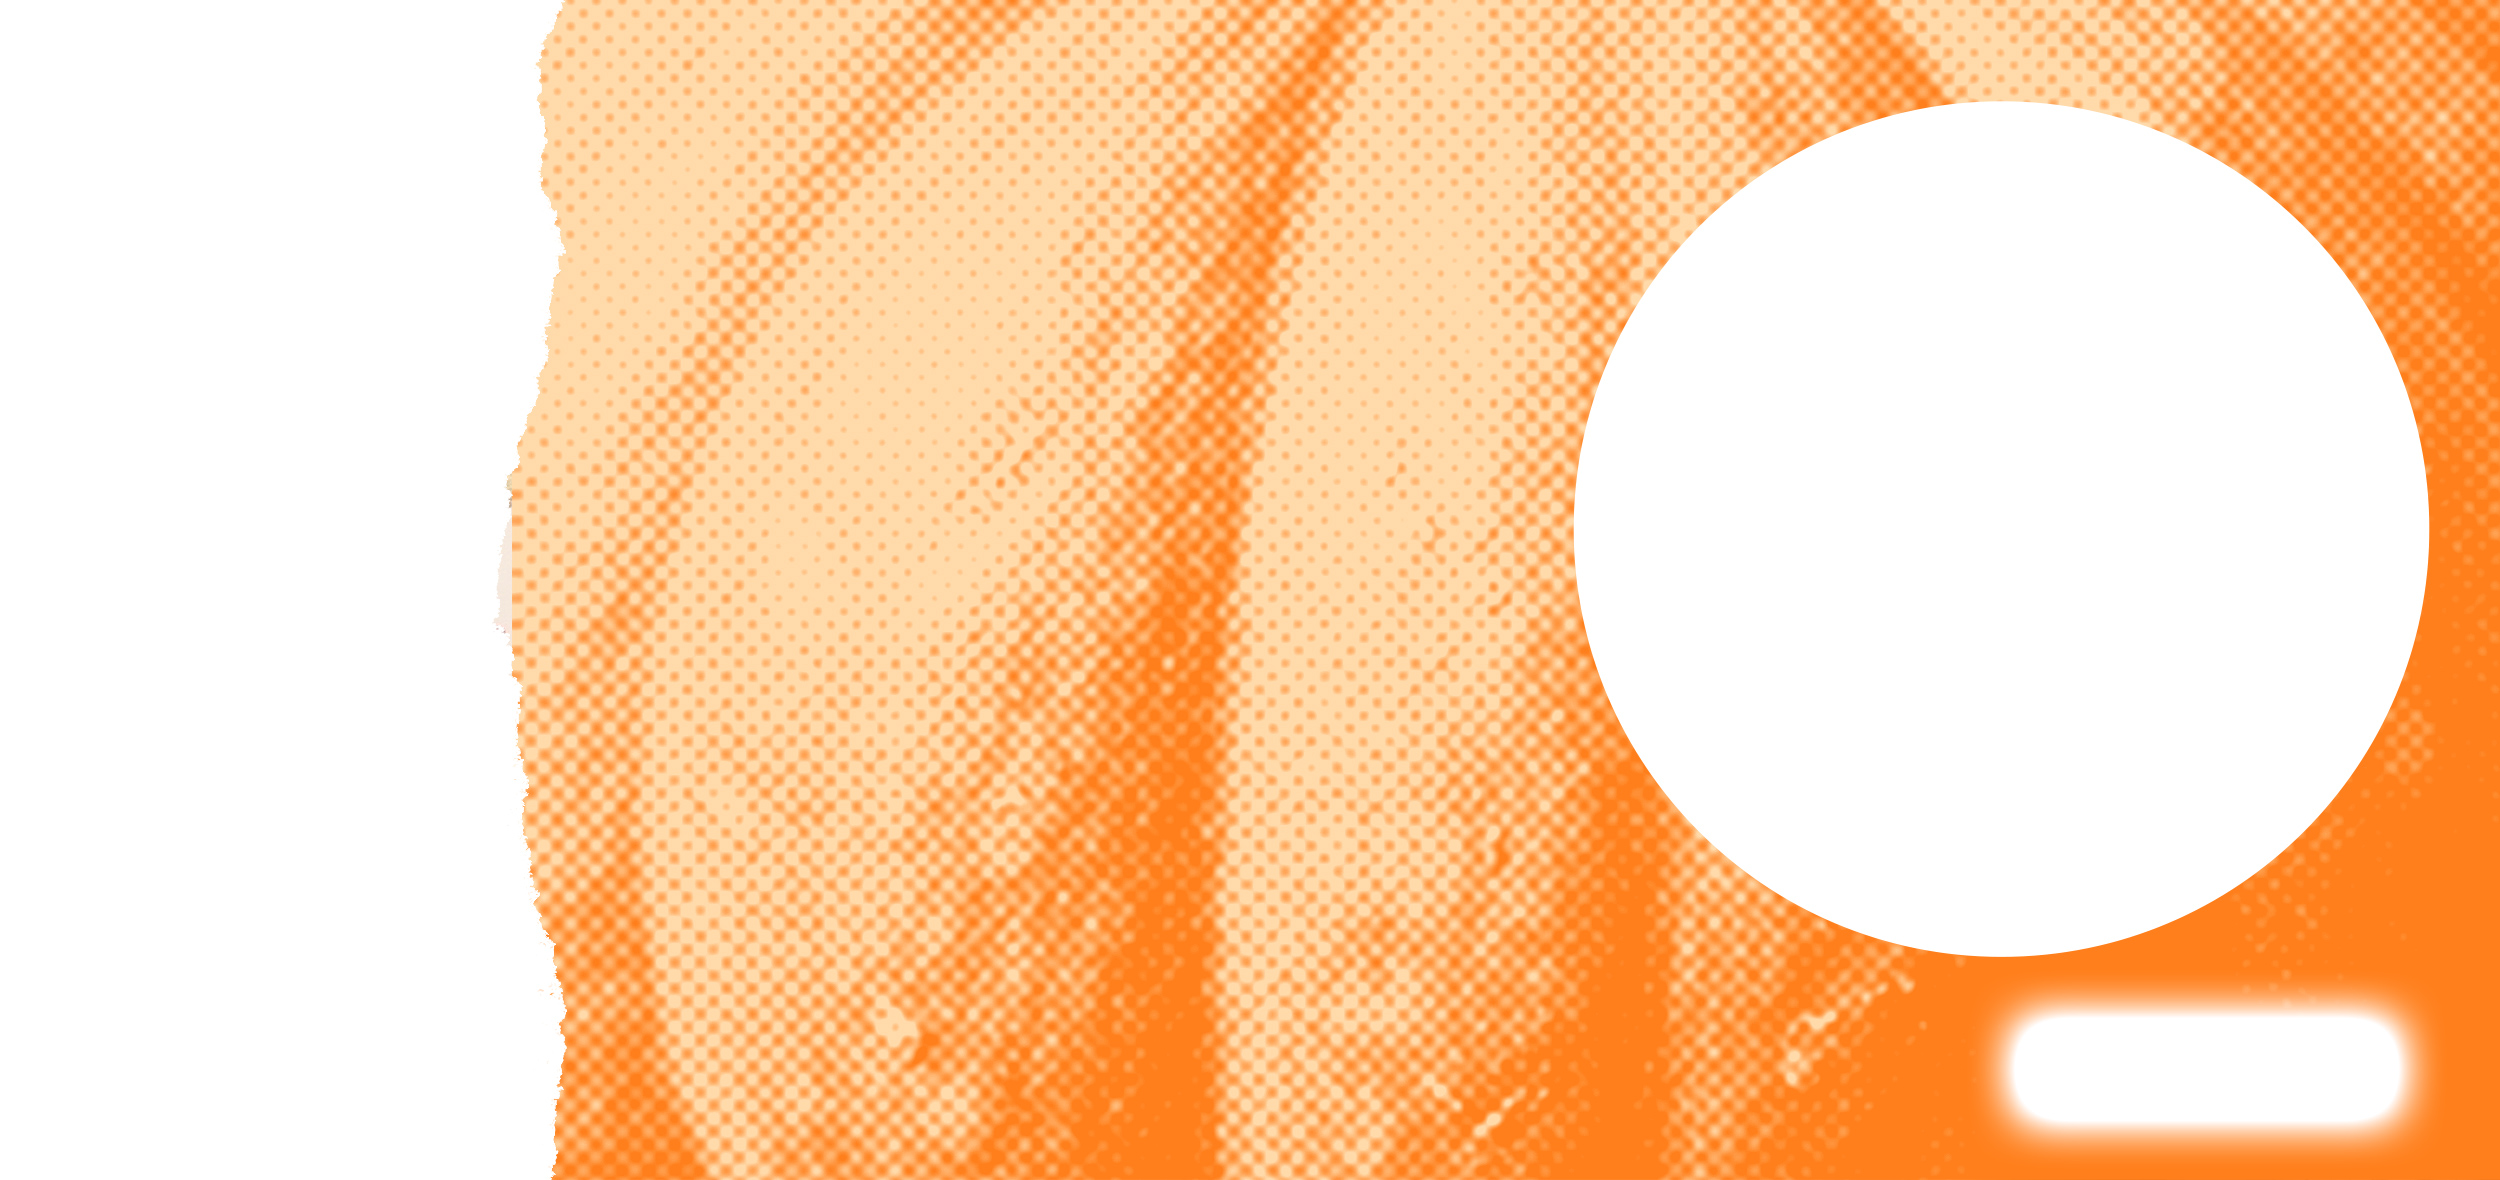
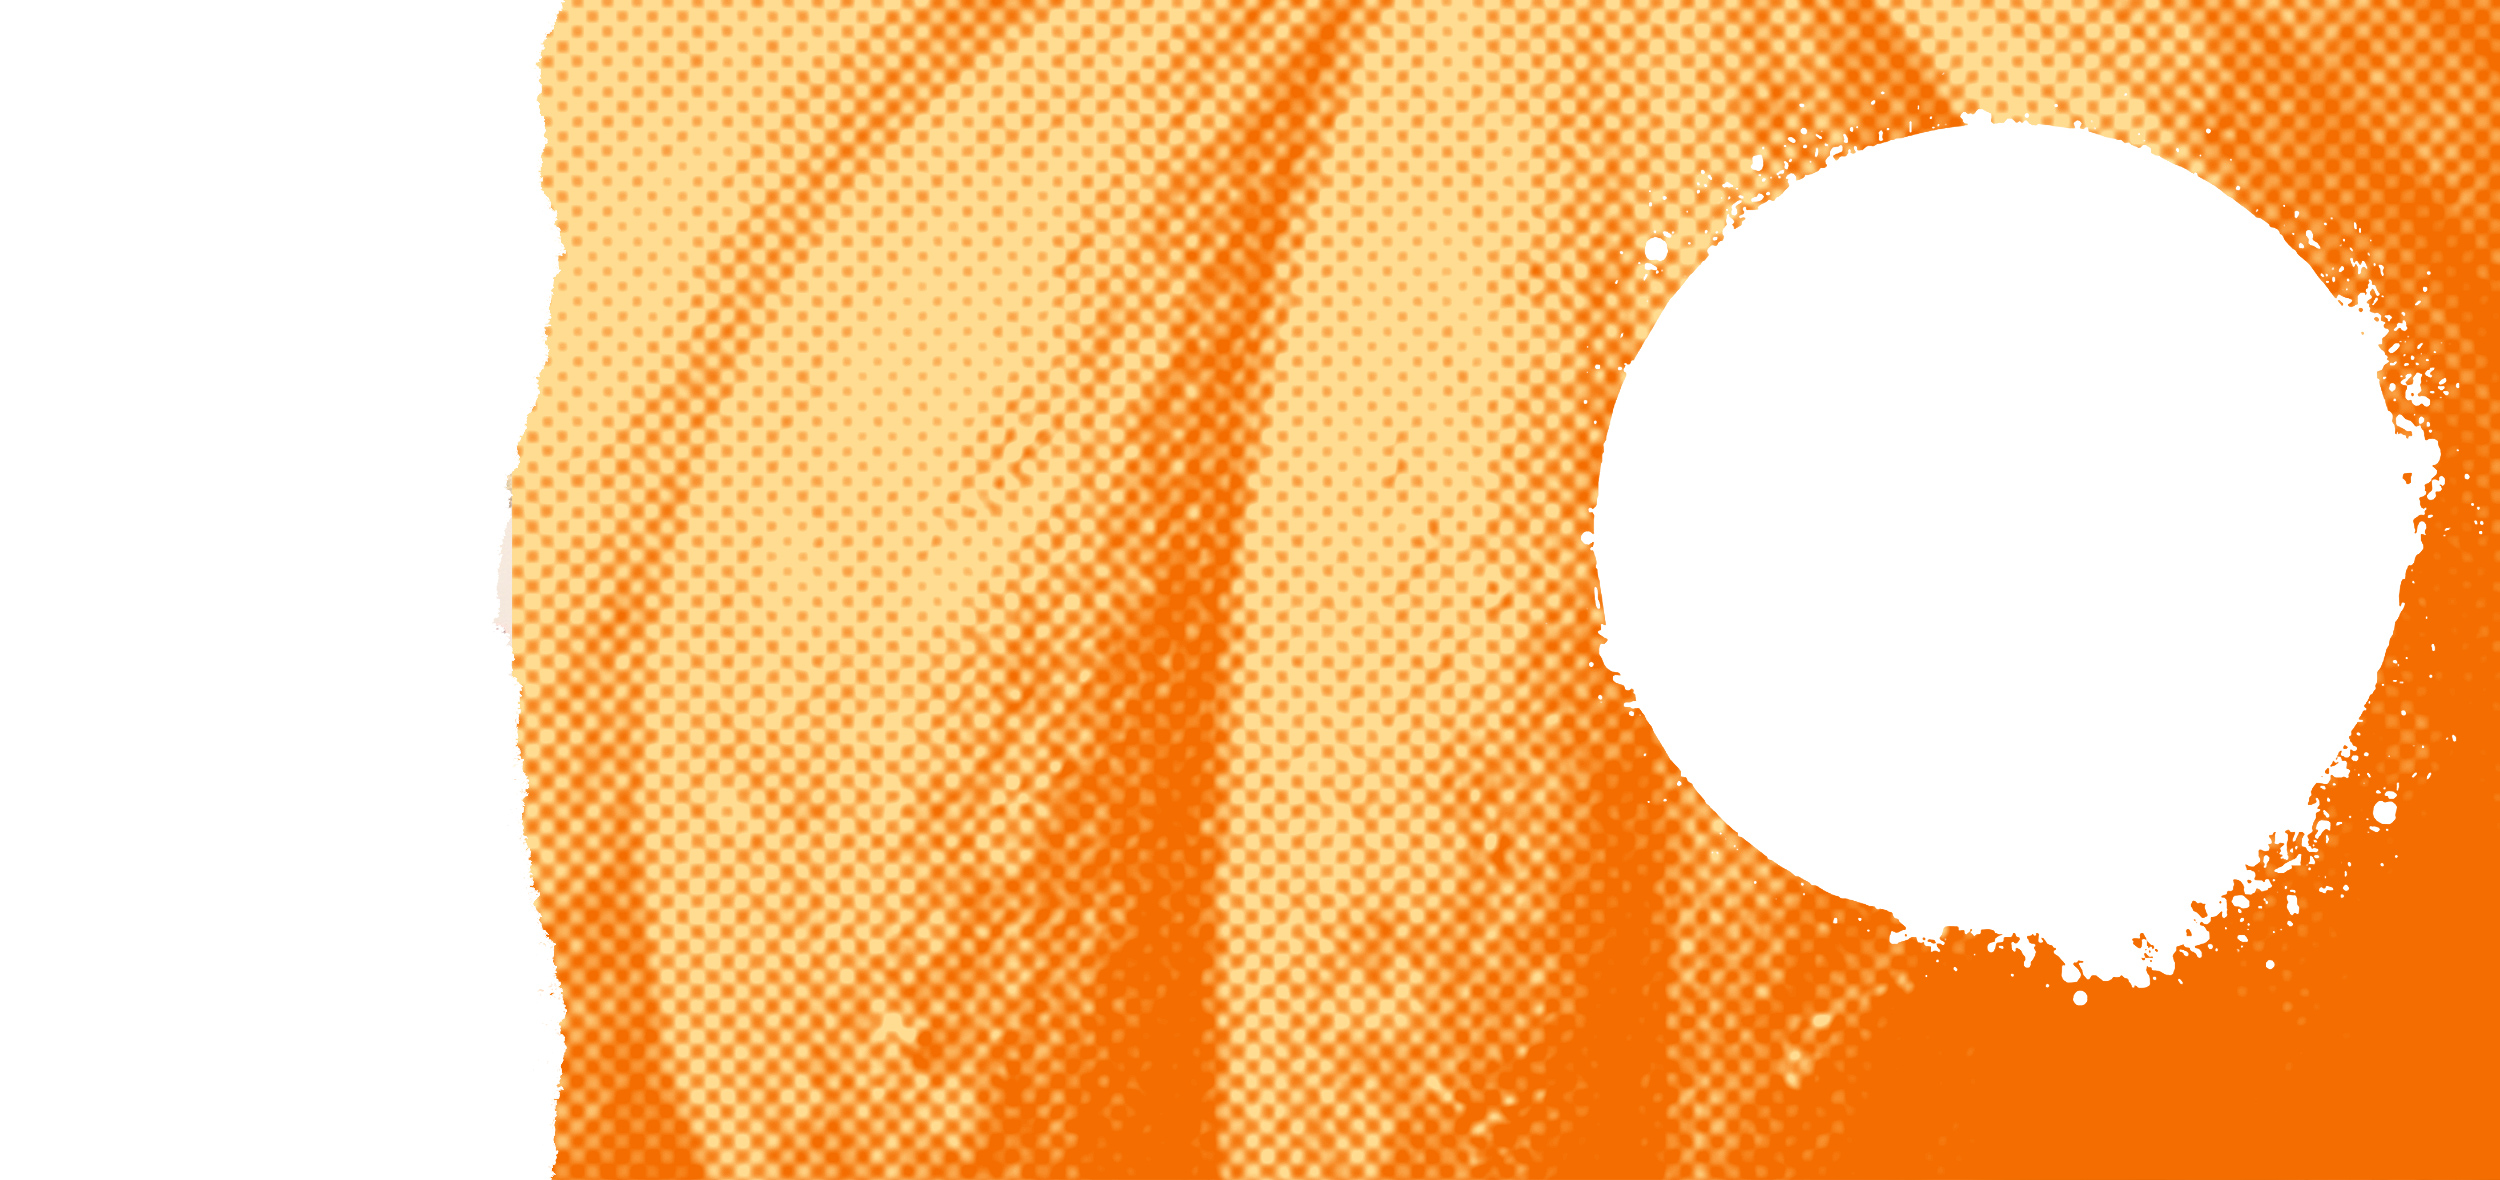
Pumpkin label: Andrew's updated artwork, and the white shadow back on "Created by"
New background has a splattered roundel edge and no "Create your own" patch, both on
purpose (Andrew). The Pumpkin style had replaced the 1px white shadow every other
style gives the creator name with a faint gold one; put the white back. Preview's
data-av 16 -> 17, because its artwork URL is name + ?v=av and the file name is
unchanged, so the CDN would keep the old image (the generator uses asset_url, which
changes by itself).

diff --git a/assets/wb-label.css b/assets/wb-label.css
@@ -714,8 +714,8 @@ body.wb-tpl-new .size50 #wb-summary { padding: 6% 18% 0; }
 }
 
 /* ── "Pumpkin" label style (custom blend, New 500ml) ───────────────────────────
-   Background wb-pumpkin-light.jpg (Andrew's halftone pumpkin, with the roundel
-   and patch left white). The name is carved in by an SVG filter,
+   Background wb-pumpkin-light.jpg (Andrew's halftone pumpkin; the roundel is
+   left white with a splattered edge, and — on purpose — no "Create your own" patch). The name is carved in by an SVG filter,
    snippets/wb-pumpkin-carve.liquid (#wb-carve) — see there for the layers.
    Position, box, vertical centring and resize are the same as every other style.
    Mirrored in wb-preview.css — keep the two in lockstep.
@@ -732,5 +732,5 @@ body.wb-tpl-new .size50 #wb-summary { padding: 6% 18% 0; }
 #page.wb-pumpkin #sideName {
   text-transform: uppercase;
   color: #160500 !important;
-  text-shadow: 0.5px 0.5px 0 rgba(255, 214, 120, 0.8) !important;
+  text-shadow: 1px 1px #ffffff !important;   /* the same white shadow as every other style */
 }

diff --git a/assets/wb-preview.css b/assets/wb-preview.css
@@ -357,8 +357,8 @@
 }
 
 /* ── "Pumpkin" label style (custom blend, New 500ml) ───────────────────────────
-   Background wb-pumpkin-light.jpg (Andrew's halftone pumpkin, with the roundel
-   and patch left white). The name is carved in by an SVG filter,
+   Background wb-pumpkin-light.jpg (Andrew's halftone pumpkin; the roundel is
+   left white with a splattered edge, and — on purpose — no "Create your own" patch). The name is carved in by an SVG filter,
    snippets/wb-pumpkin-carve.liquid (#wb-carve) — see there for the layers.
    Position, box, vertical centring and resize are the same as every other style.
    Mirrored in wb-label.css — keep the two in lockstep.
@@ -375,5 +375,5 @@
 .wbp-page.wb-pumpkin .wbp-side-name {
   text-transform: uppercase;
   color: #160500 !important;
-  text-shadow: 0.5px 0.5px 0 rgba(255, 214, 120, 0.8) !important;
+  text-shadow: 1px 1px #ffffff !important;   /* the same white shadow as every other style */
 }
